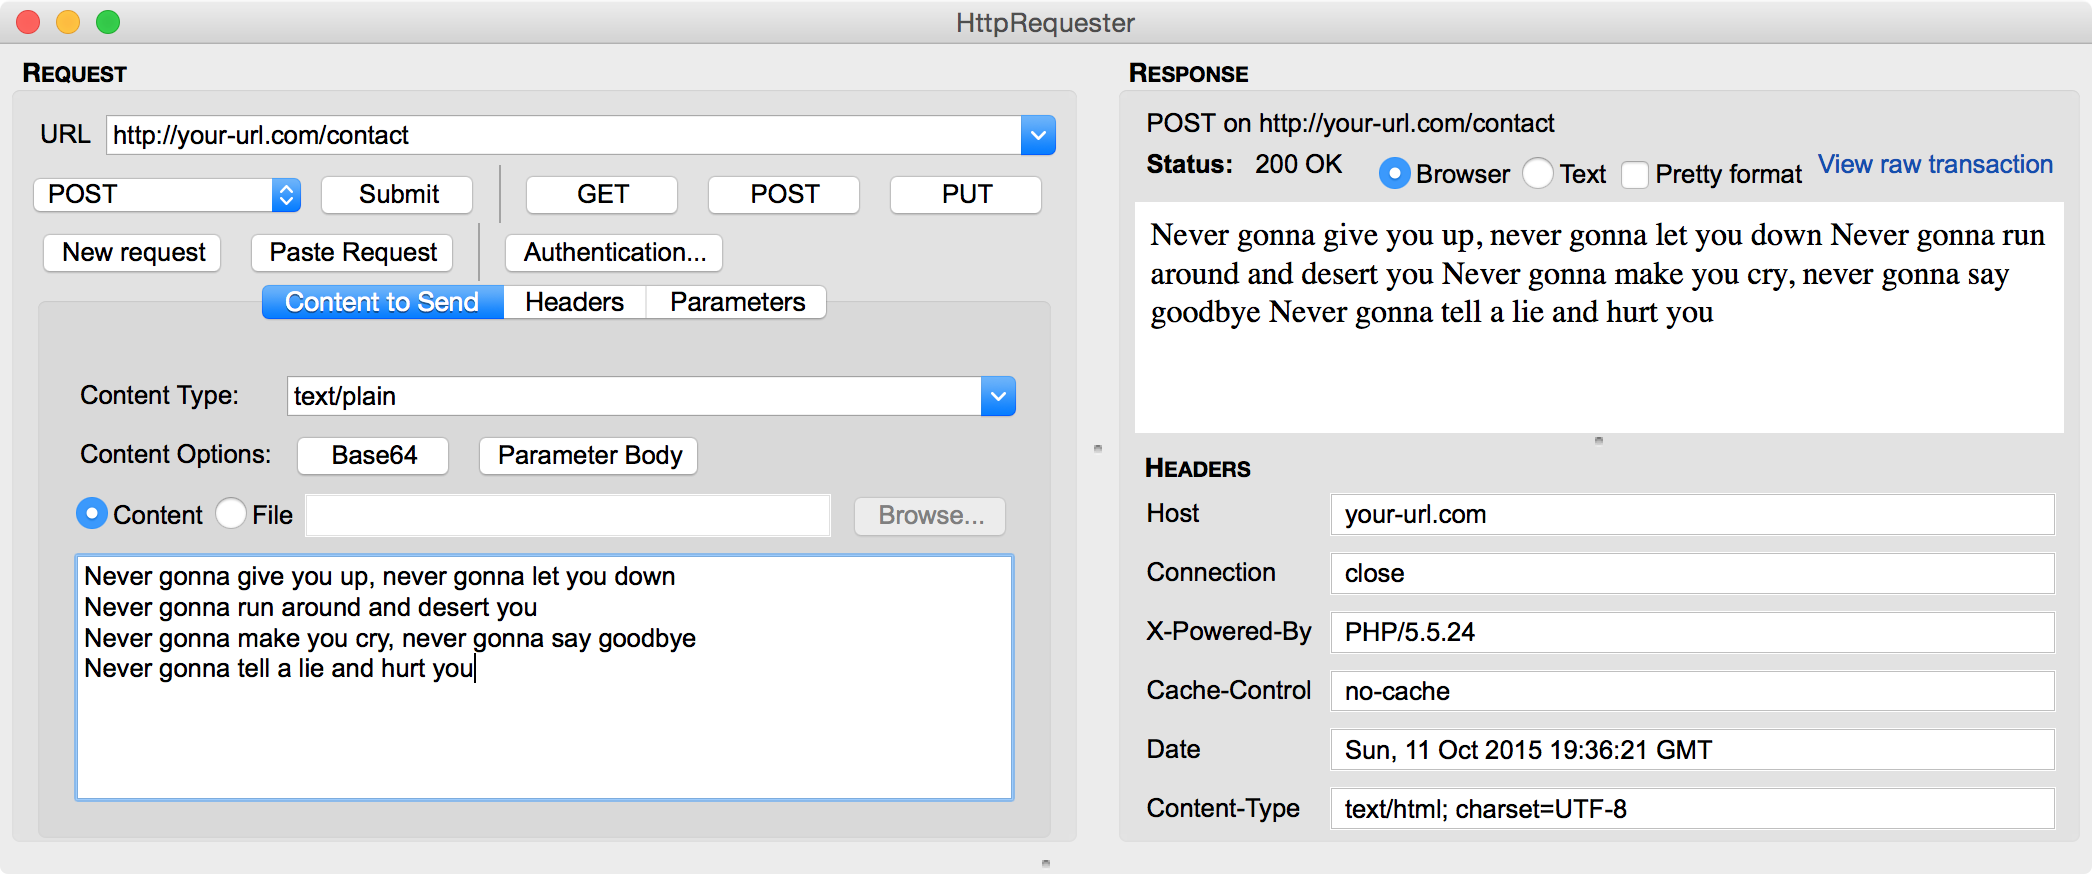
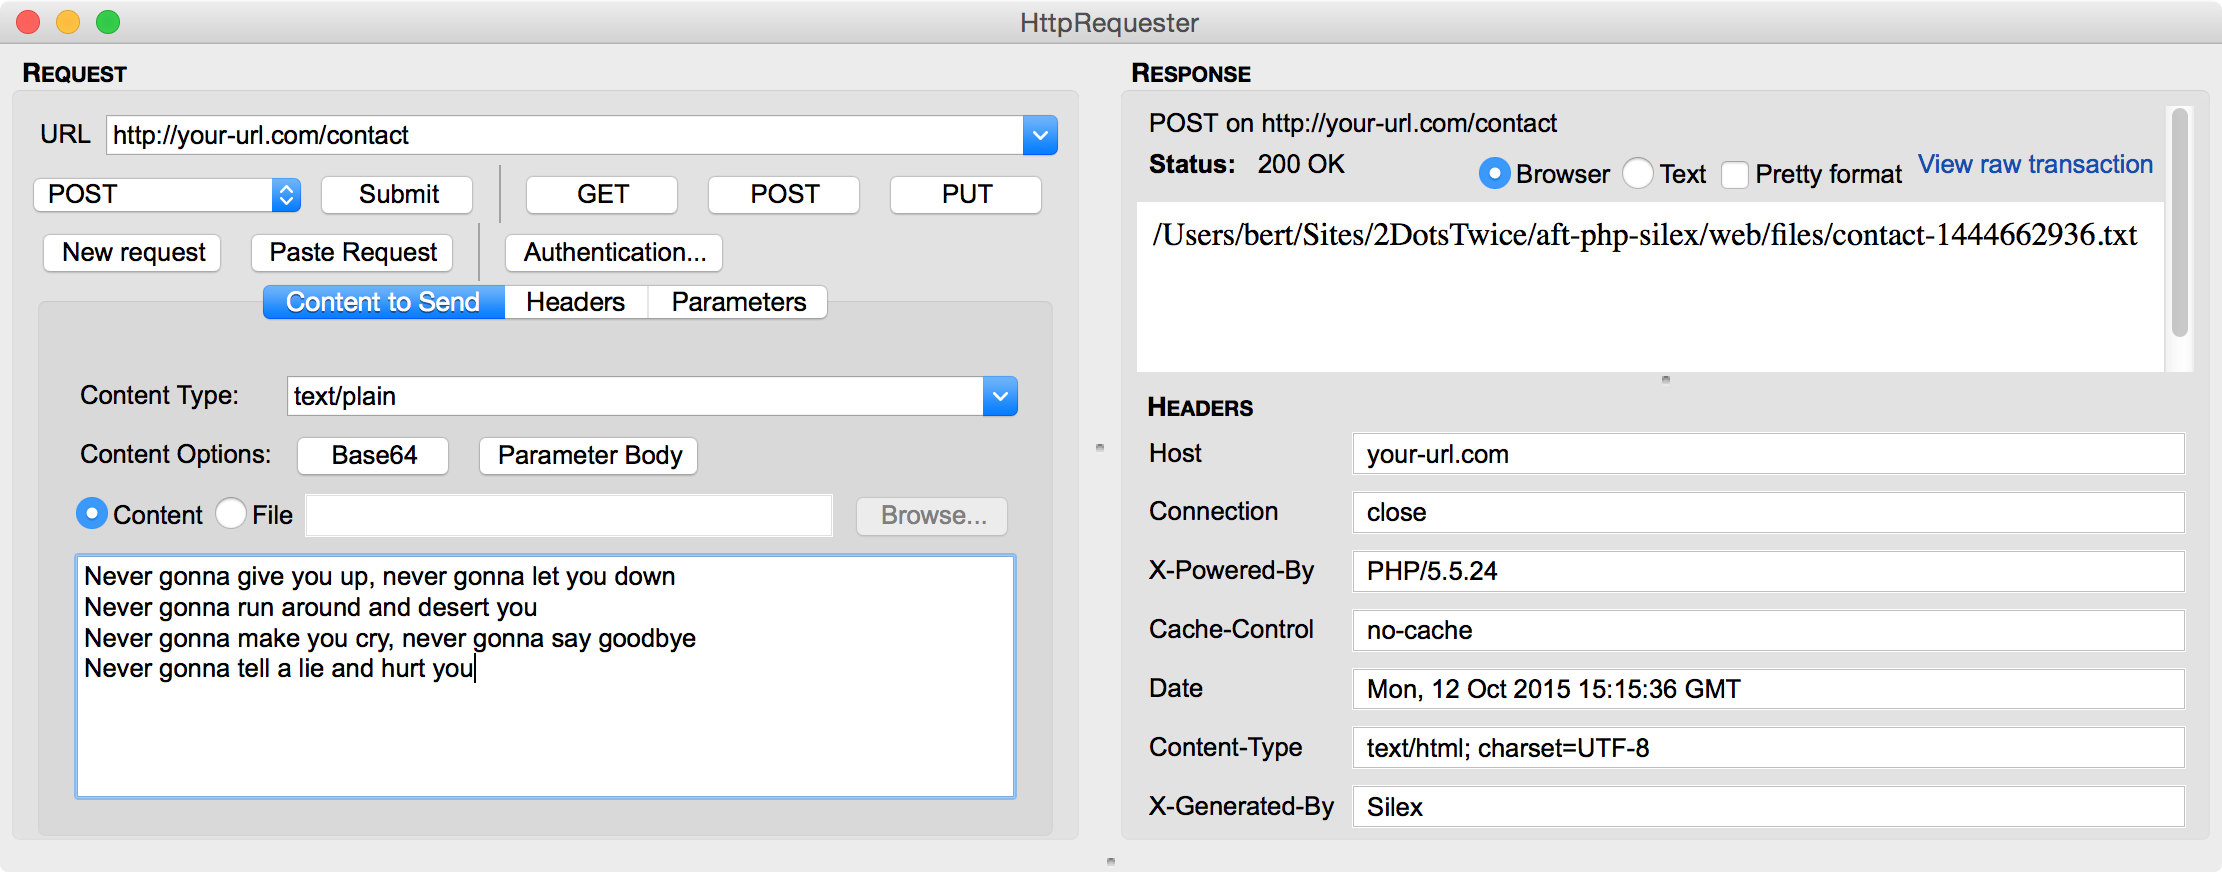
Updated example POST request response to match example code in PHP repo.

diff --git a/slides/request-handling-posting-data.md b/slides/request-handling-posting-data.md
@@ -13,7 +13,7 @@ $app->post(
         
         file_put_contents($filename, $content);
         
-        return new Response($content);
+        return new Response($filename);
     }
 );
 ```
